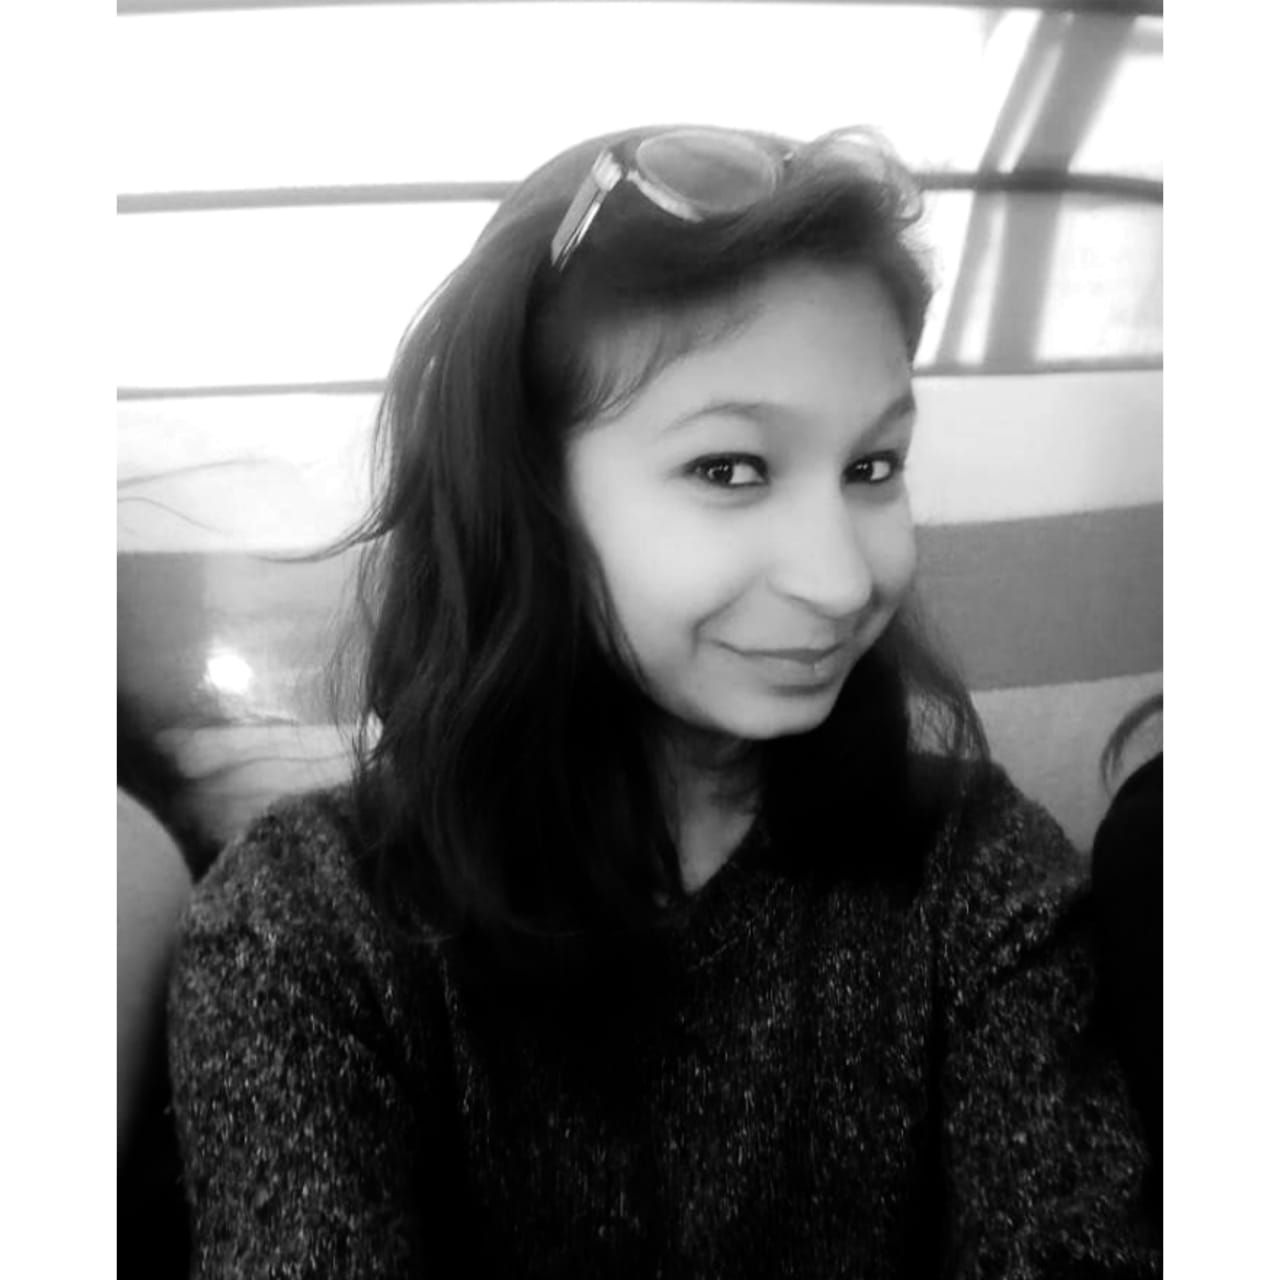
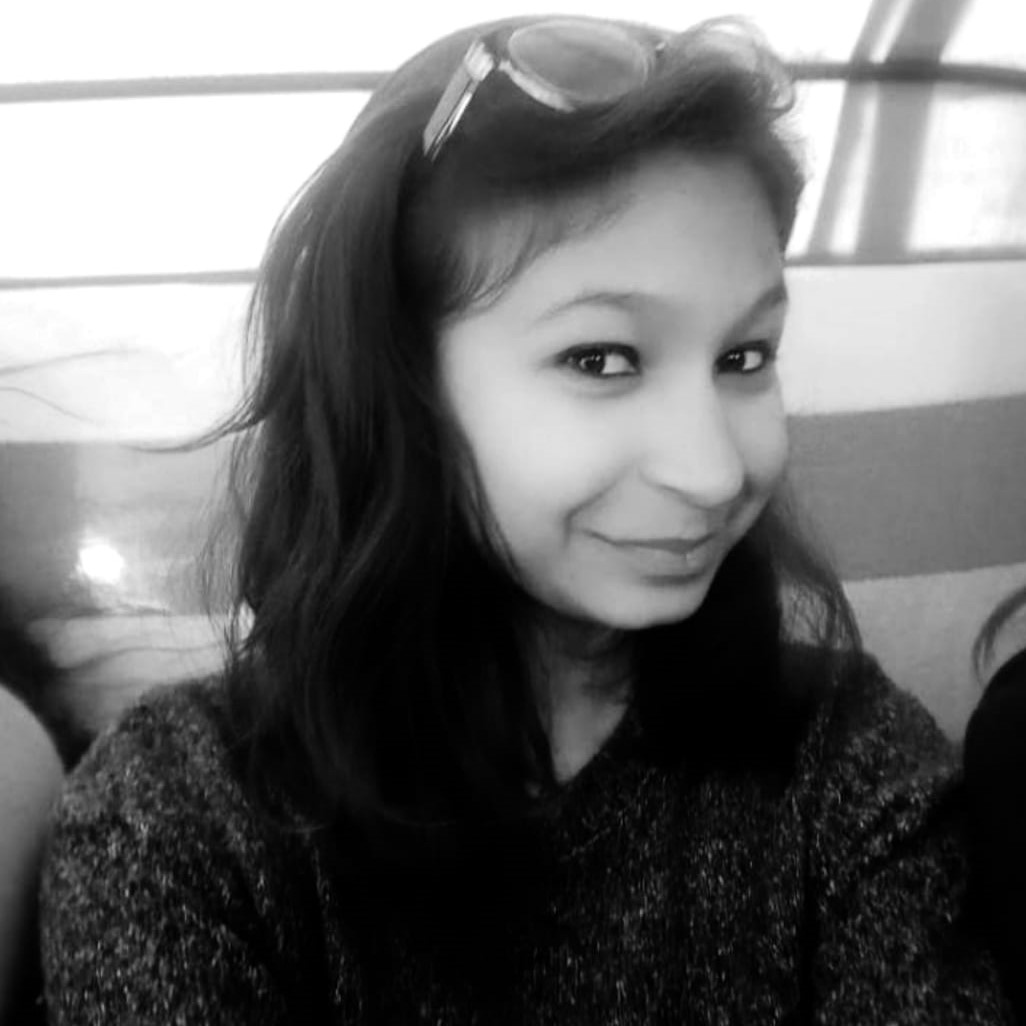
new changes done

diff --git a/index.html b/index.html
@@ -11,12 +11,12 @@
 
     <!-- BEGIN NAVBAR -->
     <div class="navbar">
-      <a href="#about">About</a>
-      <a href="#experience">Experience</a>
-      <a href="#education">Education</a>
-      <a href="#projects">Projects</a>
-      <a href="#skills">Skills</a>
-      <a href="#contact">Contact</a>
+      <a href="#about" class="nav-item">About</a>
+      <a href="#experience" class="nav-item">Experience</a>
+      <a href="#education" class="nav-item">Education</a>
+      <a href="#projects" class="nav-item">Projects</a>
+      <a href="#skills" class="nav-item">Skills</a>
+      <a href="#contact" class="nav-item">Contact</a>
     </div>
     <!-- END NAVBAR -->
 
@@ -31,23 +31,23 @@
         <div class="jumbotron-social">
           <ul class="ul-social">
             <li class="li-social-links">
-              <a class="social" href="https://github.com/sakshigupta06" target="_blank"><i class="fa fa-github" aria-hidden="true"></i></a>
+              <a class="social" href="https://github.com/sakshigupta06" target="_blank"><i class="fa fa-github social-btn" aria-hidden="true"></i></a>
             </li>
             <li class="li-social-links">
-              <a class="social" href="https://www.linkedin.com/in/sakshigupta06/" target="_blank"><i class="fa fa-linkedin" aria-hidden="true"></i></a>
+              <a class="social" href="https://www.linkedin.com/in/sakshigupta06/" target="_blank"><i class="fa fa-linkedin social-btn" aria-hidden="true"></i></a>
             </li>
             <li class="li-social-links">
-              <a class="social" href="https://twitter.com/Sakshi_0612" target="_blank"><i class="fa fa-twitter" aria-hidden="true"></i></a>
+              <a class="social" href="https://twitter.com/Sakshi_0612" target="_blank"><i class="fa fa-twitter social-btn" aria-hidden="true"></i></a>
             </li>
             <li class="li-social-links"></li>
-              <a class="social" href="https://sakshi.hashnode.dev/" target="_blank"><i class="fa fa-h-square" aria-hidden="true"></i></a>
+              <a class="social" href="https://sakshi.hashnode.dev/" target="_blank"><i class="fa fa-h-square social-btn" aria-hidden="true"></i></a>
             </li>
             <li class="li-social-links">
-              <a class="social" href="https://instagram.com/_sakshigupta06" target="_blank"><i class="fa fa-instagram" aria-hidden="true"></i></a>
+              <a class="social" href="https://instagram.com/_sakshigupta06" target="_blank"><i class="fa fa-instagram social-btn" aria-hidden="true"></i></a>
             </li>
           </ul>
         </div>
-       <button class=" button"><a href="https://docs.google.com/document/d/1Q72nbwgbET1PWuMpG8k9JZM6VjPPKquQiambmUhedoo/edit?usp=sharing">Download my Resume</a></button> 
+       <button class="button" onclick="location.href = 'https://docs.google.com/document/d/1Q72nbwgbET1PWuMpG8k9JZM6VjPPKquQiambmUhedoo/edit?usp=sharing';">Download my Resume</button> 
         <div id="down-arrow">
           <span><a href="#about"><i class="fa fa-chevron-down" aria-hidden="true"></i></a></span>
         </div>
@@ -68,12 +68,12 @@
           <div class="content-body">
             <p>Hey there! I'm Sakshi, a 19-year-old college senior currently studying for a B.Tech in Computer Science. My passions are technology and writing, and when I'm not coding , I'm singing or trying to get a song out of my head (unsuccessfully.) I love to solve problems, whether it’s finding the most elegant way to write a line of code or figuring out which word fits best into a blog, I love the challenge of finding a way and discovering solutions. Maybe that’s why I love writing and the satisfaction that comes from finding just the right word. As long as there’s a problem to solve or a challenge to puzzle over, it’s bound to be something I love! Apart from this I love cooking/baking! 
             </p>
-            <p>Wondering if I might be a good fit for your company? Check out my <a href="https://www.linkedin.com/in/sakshigupta06/">[LinkedIn profile]!</a>
+            <p>Wondering if I might be a good fit for your company? Check out my <a href="https://www.linkedin.com/in/sakshigupta06/" class="active-link">LinkedIn profile</a>
               This site is a collection of my work, interests, and writings; if any of those things intrigue you, don't hesitate to reach out.
               </p>
-              <u><p>Contact Me:</p></u>
+              <u><p><b>Contact Me:</b></p></u>
               <p>Mobile No: +91 9811623640</p>
-              <p>E-mail address: <a href="mailto:hey@devsakshi.me">hey@devsakshi.me</a></p>
+              <p>E-mail address: <a href="mailto:hey@devsakshi.me" class="active-link">hey@devsakshi.me</a></p>
           </div>
         </div>
         <div class="side-content"></div>
@@ -192,10 +192,10 @@
                 <img src="image/music.png">
               </div>
               <div class="project-content">
-                <h3>Classify song genres from audio data</h3>
+                <h3>Classify Song Genres From Audio Data</h3>
                 <p class= "content-color">Using a dataset composed of songs of two music genres (Hip-Hop and Rock), I train a classifier to distinguish between the two genres based only on track information derived from Echonest (now part of Spotify). I first make use of pandas and seaborn packages in Python for subsetting the data, aggregating information, and creating plots. Next, I used the scikit-learn package to predict whether I can correctly classify a song's genre based on features such as danceability, energy, acousticness, tempo, etc. You will go over implementations of common algorithms such as PCA, logistic regression, decision trees, and so forth.
                 </p>
-                <a href="https://github.com/sakshigupta06/Project-Data-Camp/tree/master/PROJECT%201">Checkout my project</a>
+                <button class="project-btn" onclick="location.href = 'https://github.com/sakshigupta06/Project-Data-Camp/tree/master/PROJECT%201';">Checkout my project on <span class="fa fa-github"></span></button>
               </div>
             </div>
             <!-- CARD #2 -->
@@ -207,7 +207,7 @@
                 <h3>Predicting Credit Card Approvals</h3>
                 <p class= "content-color">Commercial banks receive a lot of applications for credit cards. Many of them get rejected for many reasons, like high loan balances, low income levels, or too many inquiries on an individual's credit report, for example. Manually analyzing these applications is mundane, error-prone, and time-consuming (and time is money!). Luckily, this task can be automated with the power of machine learning and pretty much every commercial bank does so nowadays. In this project, I will build an automatic credit card approval predictor using machine learning techniques, just like the real banks do using Supervised Learning with scikit-learn and Data Manipulation with Pandas.
                 </p>
-                <a href="https://github.com/sakshigupta06/Predicting-Credit-Card-Approvals">Checkout my project</a>
+                <button class="project-btn" onclick="location.href = 'https://github.com/sakshigupta06/Predicting-Credit-Card-Approvals';">Checkout my project on <span class="fa fa-github"></span></button>
               </div>
             </div>
             <!-- CARD #3 -->
@@ -290,7 +290,7 @@
           <div class="content-header">
           </div>
           <div class="content-body">
-            <p><h3> © Copyright 2020 Sakshi Gupta </h3></p>
+            <p><h3 class="copyright-div"> © Copyright 2020 Sakshi Gupta </h3></p>
           </div>
         </div>
         <div class="side-content"> </div>

diff --git a/style.css b/style.css
@@ -1,11 +1,11 @@
 body {
-  font-family: 'Carter One', sans-serif;
-  background: rgba(242, 242, 242, .6);
+  font-family: "Carter One", sans-serif;
+  background: rgba(242, 242, 242, 0.6);
   margin: 0;
 }
 
 * {
-  box-sizing: border-box
+  box-sizing: border-box;
 }
 
 /*NAVBAR*/
@@ -16,6 +16,10 @@ body {
   width: 100%; /* Full width */
   display: flex;
   justify-content: center;
+}
+
+.nav-item:hover {
+  background-color: #006600;
 }
 
 .navbar a {
@@ -74,6 +78,10 @@ body {
   list-style: none;
 }
 
+.social-btn:hover {
+  transform: scale(1.2);
+}
+
 .social {
   font-size: 2em;
   color: white;
@@ -84,9 +92,21 @@ body {
 #down-arrow {
   /*position: absolute;
   width: 100%;*/
+  width: 2vw;
+  height: 2vw;
+  border-radius: 50%;
   margin-top: auto;
-  text-align: center;
   margin-bottom: 50px;
+  margin-left: auto;
+  margin-right: auto;
+  display: flex;
+  align-items: center;
+  justify-content: center;
+}
+
+#down-arrow:hover {
+  background-color: rgba(242, 242, 242, 0.5);
+  transition: 0.2s;
 }
 
 #down-arrow a {
@@ -129,9 +149,9 @@ body {
 }
 
 .box-shadow {
-  -webkit-box-shadow: 0px 0px 1px 0px rgba(0,0,0,0.75);
-  -moz-box-shadow: 0px 0px 1px 0px rgba(0,0,0,0.75);
-  box-shadow: 0px 0px 1px 0px rgba(0,0,0,0.75);
+  -webkit-box-shadow: 0px 0px 1px 0px rgba(0, 0, 0, 0.75);
+  -moz-box-shadow: 0px 0px 1px 0px rgba(0, 0, 0, 0.75);
+  box-shadow: 0px 0px 1px 0px rgba(0, 0, 0, 0.75);
 }
 
 h2 {
@@ -152,22 +172,22 @@ h2 {
   display: flex;
   flex-direction: column;
   background-color: white;
-  border: 1px solid rgba(0,0,0,.125);
-  border-radius: .25rem;
+  border: 1px solid rgba(0, 0, 0, 0.125);
+  border-radius: 0.25rem;
   margin-bottom: 30px;
 }
 
 .card-header {
-  padding: .75rem 1.25rem;
+  padding: 0.75rem 1.25rem;
   background-color: white;
-  border-bottom: 1px solid rgba(0,0,0,.075);
-  border-top-left-radius: .25rem;
-  border-top-right-radius: .25rem;
+  border-bottom: 1px solid rgba(0, 0, 0, 0.075);
+  border-top-left-radius: 0.25rem;
+  border-top-right-radius: 0.25rem;
 }
 
 .card-content {
   color: grey;
-  padding: .25rem 1.25rem;
+  padding: 0.25rem 1.25rem;
   flex: 1 1 auto;
 }
 
@@ -186,10 +206,10 @@ h4 {
   display: flex;
   flex-direction: row;
   background-color: white;
-  border: 1px solid rgba(0,0,0,.125);
+  border: 1px solid rgba(0, 0, 0, 0.125);
   border-radius: 5px;
   margin-bottom: 30px;
-  box-shadow: 0 3px 6px rgba(0,0,0,0.08), 0 3px 6px rgba(0,0,0,0.15);
+  box-shadow: 0 3px 6px rgba(0, 0, 0, 0.08), 0 3px 6px rgba(0, 0, 0, 0.15);
 }
 
 .project-image {
@@ -211,8 +231,34 @@ h4 {
   flex-direction: column;
 }
 
-.content-color{
+.content-color {
   color: grey;
+}
+
+.project-btn {
+  width: max-content;
+  height: max-content;
+  border: none;
+  outline: none;
+  border-radius: 25px;
+  background-color: #295505;
+  display: block;
+  padding: 12px;
+  margin-right: auto;
+  cursor: pointer;
+  color: #ffffff;
+  font-size: 1rem;
+  font-weight: 600;
+  text-transform: capitalize;
+}
+
+.project-btn:hover {
+  transform: scale(1.03);
+  transition: 0.2s;
+}
+
+.project-btn:active {
+  transform: translateY(1px);
 }
 
 /*SKILLS*/
@@ -230,6 +276,7 @@ h4 {
   list-style: none;
   cursor: default;
   font-size: 1.7em;
+  border-radius: 15px;
 }
 
 /*CONTACT*/
@@ -240,20 +287,28 @@ h4 {
 
 .contact {
   max-width: 500px;
+  height: 30vh;
   margin: 0 auto;
 }
 
-.contact input, .contact textarea {
+.contact input,
+.contact textarea {
   display: block;
   width: 100%;
   padding: 10px;
   border-radius: 4px;
   border: none;
+  outline: none;
   margin-bottom: 10px;
   background: #295505;
   color: rgb(172, 201, 169);
-  -webkit-transition: .5s ease all;
-  transition: .5s ease all;
+  -webkit-transition: 0.1s ease all;
+  transition: 0.1s ease all;
+}
+
+.contact input:focus,
+.contact textarea:focus {
+  border: solid #ffffff;
 }
 
 .contact textarea {
@@ -270,9 +325,13 @@ h4 {
   border: none;
   color: #a4d531;
   font-weight: 1000;
-  box-shadow: 0 1px 3px rgba(0,0,0,0.12), 0 1px 2px rgba(0,0,0,0.24);
-  -webkit-transition: .5s ease all;
-  transition: .5s ease all;
+  box-shadow: 0 1px 3px rgba(0, 0, 0, 0.12), 0 1px 2px rgba(0, 0, 0, 0.24);
+  -webkit-transition: 0.1s ease all;
+  transition: 0.1s ease all;
+}
+
+.contact button:hover {
+  border: 2px solid #295505;
 }
 
 .white-text {
@@ -282,15 +341,30 @@ h4 {
 /*Resume*/
 
 .button {
+  width: max-content;
+  height: max-content;
   border: none;
-  color: white;
-  padding: 8px;
-  text-align: center;
-  text-decoration: none;
-  display: inline-block;
-  font-size: 16px;
-  margin: 20px 6px;
+  outline: none;
+  border-radius: 25px;
+  background-color: #ffffff;
+  display: block;
+  padding: 12px;
+  margin-left: auto;
+  margin-right: auto;
   cursor: pointer;
+  color: #295505;
+  font-size: 1rem;
+  font-weight: 600;
+}
+
+.button:hover {
+  background-color: aliceblue;
+  transform: scale(1.01);
+  transition: 0.2s;
+}
+
+.button:active {
+  transform: translateY(1px);
 }
 
 /*Image*/
@@ -298,7 +372,19 @@ h4 {
   display: block;
   margin-left: auto;
   margin-right: auto;
-  width: 50%;
+  width: 20%;
+  border-radius: 50%;
+}
+
+/* linked in link - about me section */
+.active-link {
+  color: #000000;
+  text-decoration: underline;
+  font-size: 1.2rem;
+}
+
+.active-link:hover {
+  font-size: 1.25rem;
 }
 
 /* Call to Action Button*/
@@ -306,7 +392,15 @@ h4 {
 #fixedbutton {
   position: fixed;
   bottom: 50px;
-  right: 10px; 
+  right: 10px;
   color: #295505;
   display: inline-block;
+}
+
+/* copyright  */
+
+.copyright-div {
+  display: flex;
+  align-items: center;
+  justify-content: center;
 }
